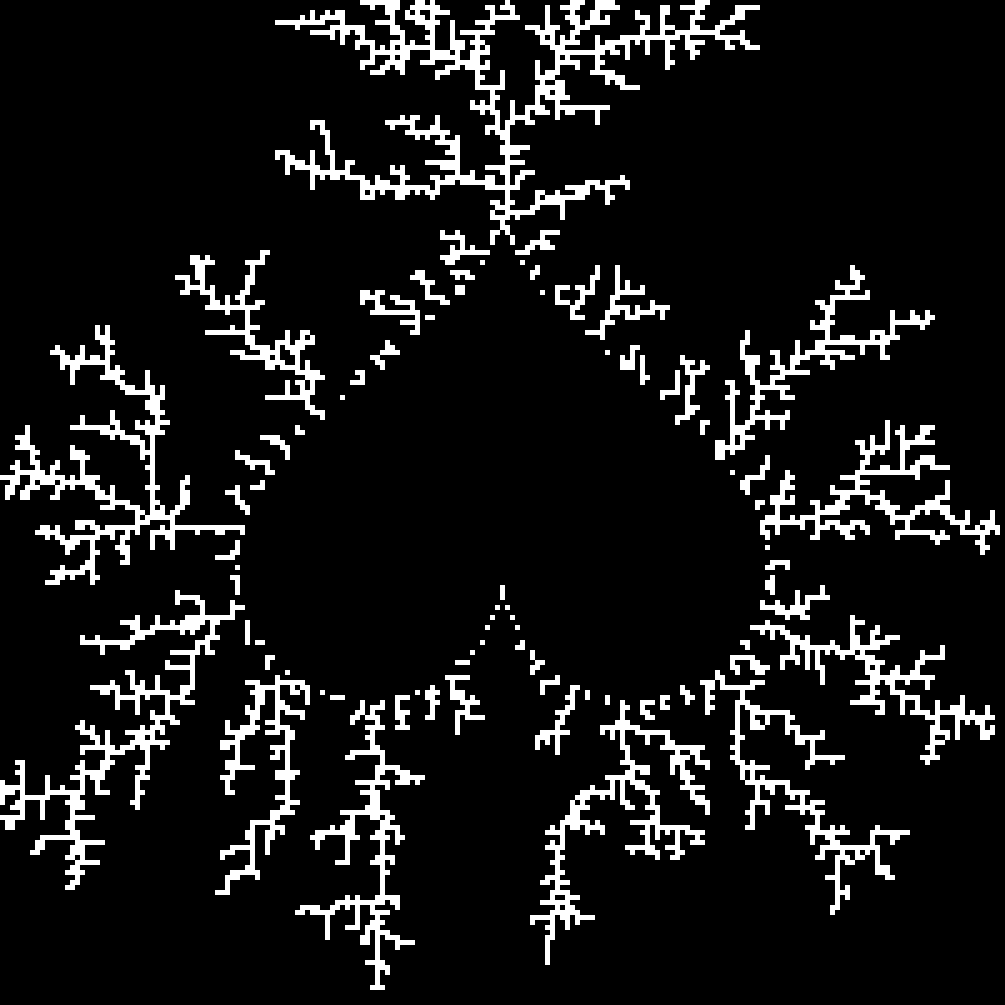
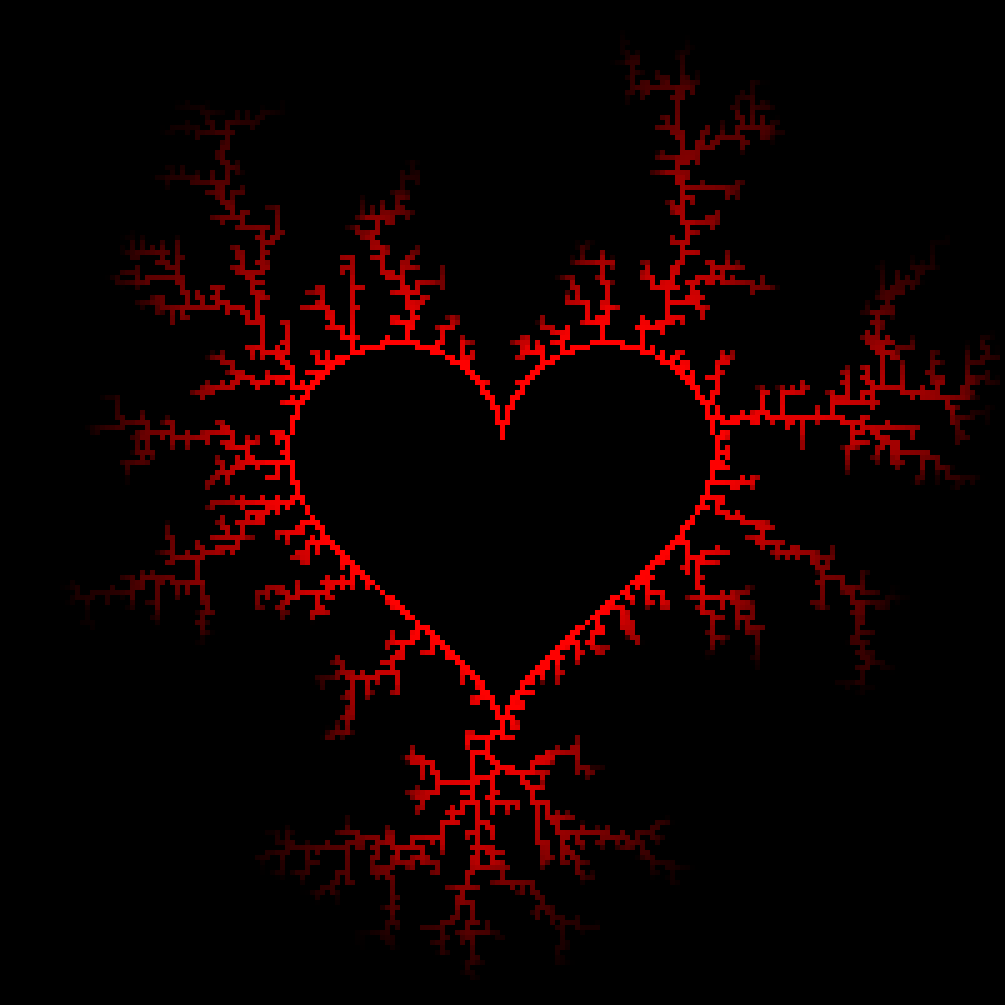
i think dr. balazs will like this one

Changed region(s): [[0.0, 0.0, 1.0, 0.9871], [0.4935, 0.5861, 0.5244, 0.6478]]

diff --git a/DLA/dla.go b/DLA/dla.go
@@ -40,8 +40,8 @@ var StateColor = map[SiteState]color.NRGBA{
 	},
 	Filled: {
 		R: 255,
-		G: 255,
-		B: 255,
+		G: 0,
+		B: 0,
 		A: 255,
 	},
 	// Visited: {
@@ -99,11 +99,6 @@ type Model struct {
 // 	return slices.Delete(slice, s, s+1)
 // }
 
-func unordered_remove[T any](s []T, i int) []T {
-	s[i] = s[len(s)-1]
-	return s[:len(s)-1]
-}
-
 // // this isnt dumb at all
 // type Walkers []Walker
 //
@@ -132,11 +127,15 @@ func gen_grid(size int) Grid {
 //
 // }
 
-func heart_equation(t float64) (float64, float64) {
-	y := 16 * math.Pow(math.Sin(t), 3)
-	x := 13*math.Cos(t) - 5*math.Cos(2*t) - 2*math.Cos(3*t) - math.Cos(4*t)
+func round(x float64) int {
+	return int(math.Round(x))
+}
 
-	y /= 15
+func heart_equation(t float64) (float64, float64) {
+	x := 16 * math.Pow(math.Sin(t), 3)
+	y := 13*math.Cos(t) - 5*math.Cos(2*t) - 2*math.Cos(3*t) - math.Cos(4*t)
+
+	y /= -15
 	x /= 15
 
 	return x, y
@@ -153,19 +152,15 @@ func gen_heart_grid(size int, radius float64) Grid {
 	mid := (size - 1) / 2
 	mid_point := Point{row: mid, col: mid}
 
-	points := 100
+	points := 1000
 
 	for i := range points {
 		t := float64(i) / float64(points) * 2 * math.Pi
-		fmt.Println("t? ", t)
 
 		x, y := heart_equation(t)
-		fmt.Println("got this x, y", x, y)
-		point := Point{row: int(math.Round(x * radius)), col: int(math.Round(y * radius))}
+		point := Point{col: int(math.Round(x * radius)), row: int(math.Round(y * radius))}
 
 		real_point := add_points(point, mid_point)
-
-		fmt.Println("filled this square: ", real_point)
 
 		*grid.index(real_point) = Filled
 
@@ -257,7 +252,8 @@ func init_model(size int, p float64) Model {
 	//
 	// *grid.index(middle) = 1
 
-	grid := gen_heart_grid(size, 50)
+	heart_radius := 40.0
+	grid := gen_heart_grid(size, heart_radius)
 	// walkers := make([]Walker, 1)
 	// walkers[0] = Walker{
 	// 	location: middle,
@@ -298,7 +294,7 @@ func (m *Model) countNeibors(point Point) int {
 	neighbors := 0
 	for _, step := range CARDINALS {
 		new_point := add_points(point, step)
-		if m.grid.is_valid_point(new_point) && *m.grid.index(new_point) == Filled {
+		if m.grid.is_valid_point(new_point) && *m.grid.index(new_point) > 0 {
 			neighbors++
 		}
 	}
@@ -306,18 +302,25 @@ func (m *Model) countNeibors(point Point) int {
 	return neighbors
 }
 
-func (m *Model) tick(r *rand.Rand) {
+func (m *Model) onPerimeter(point Point) bool {
+	if point.row == 0 || point.row == m.size-1 || point.col == 0 || point.col == m.size-1 {
+		return true
+	} else {
+		return false
+	}
+}
+
+func (m *Model) tick(r *rand.Rand) bool {
 
 	// index := -1
 	walker := m.random_start(r)
+	var new_point Point
 	// fmt.Println("starting here:", walker)
 	for true {
 
 		// index++
 
 		// walker := &m.walkers[index]
-
-		var new_point Point
 
 		// start := time.Now()
 
@@ -333,14 +336,22 @@ func (m *Model) tick(r *rand.Rand) {
 
 		neihbors := m.countNeibors(new_point)
 		if neihbors > 0 {
-			*m.grid.index(new_point) = Filled
+			*m.grid.index(new_point) = SiteState(m.time)
+			// *m.grid.index(new_point) = Filled
 			m.infected++
+
 			break
 		}
 
 	}
 
 	m.time++
+
+	if m.onPerimeter(new_point) {
+		return true
+	} else {
+		return false
+	}
 
 }
 
@@ -441,13 +452,6 @@ func main() {
 	case "3d":
 		make_3d_chart(data)
 
-	case "threshold":
-		make_threshold_chart(data)
-	case "derivative":
-		make_derivative_chart(data)
-	case "cross":
-		cross_sections(data)
-
 	default:
 		fmt.Println("uknown chart type: ", *args.chart)
 	}
@@ -547,148 +551,6 @@ func cast_to_float(input []any) ([]float64, error) {
 //
 // }
 
-func formatXY(Data []opts.Chart3DData) [][]float64 {
-	data := make([][]float64, 50)
-
-	for index := range data {
-		data[index] = make([]float64, 50)
-	}
-
-	for _, value := range Data {
-
-		values, err := cast_to_float(value.Value)
-		if err != nil {
-			panic(err)
-		}
-
-		// fmt.Println(values)
-
-		data[int(values[1])][int(math.Round(values[0]*50))] = values[2]
-
-		// switch v := value.Value[0].(type) {
-		// case float64:
-		// 	data[row_dex][col_dex] = v
-		// default:
-		// 	panic("howd that get in here")
-		// }
-	}
-
-	return data
-
-}
-
-func make_threshold_chart(Data []opts.Chart3DData) {
-
-	data := formatXY(Data)
-
-	threshold := make([]float64, 50)
-
-	for p, row := range data {
-		j := 0
-		for j < len(row) && row[j] == 0 {
-			j++
-		}
-
-		j--
-
-		threshold[p] = float64(j) / 50
-
-	}
-
-	// fmt.Println(threshold)
-
-	// for i := len(threshold) - 1; i >= 0; i-- {
-	// 	fmt.Println(threshold[i])
-	// }
-
-	for _, value := range threshold {
-		fmt.Println(value)
-	}
-
-}
-
-const DATA_SIZE = 50
-
-// MUST BE tau by p
-func cast_to_echart_format(data [][]float64) []opts.Chart3DData {
-	// fmt.Println(data)
-
-	output := make([]opts.Chart3DData, 0, len(data)*len(data[0]))
-
-	for i, row := range data {
-		for j, k := range row {
-			if k == 0 {
-				continue
-			}
-
-			output = append(output, opts.Chart3DData{Value: []any{j, float64(i) / DATA_SIZE, k}})
-		}
-	}
-
-	return output
-}
-
-func make_derivative_chart(Data []opts.Chart3DData) {
-	data := formatXY(Data)
-
-	d_tau := make([][]float64, 50)
-	d_p := make([][]float64, 50)
-
-	for i := range d_tau {
-		d_tau[i] = make([]float64, 50-1)
-		d_p[i] = make([]float64, 50-1)
-
-	}
-
-	for i := range DATA_SIZE - 1 {
-		for j := range DATA_SIZE - 2 {
-			if data[i][j] == 0 {
-				continue
-			}
-
-			d_p[i][j] = (data[i][j+1] - data[i][j])
-		}
-
-	}
-
-	for j := range DATA_SIZE - 1 {
-		for i := range DATA_SIZE - 2 {
-			d_tau[i][j] = (data[i+1][j] - data[i][j])
-
-		}
-	}
-
-	// make_3d_chart(cast_to_echart_format(d_tau))
-	make_3d_chart(cast_to_echart_format(d_p))
-
-}
-
-func cross_sections(Data []opts.Chart3DData) {
-	data := formatXY(Data)
-
-	tau_sections := []int{5, 10, 20}
-
-	for _, tau := range tau_sections {
-		fmt.Println("tau value:", tau)
-
-		for i := range data[tau] {
-			fmt.Println(data[tau][i])
-		}
-	}
-
-	// p_sections := []int{10, 30, 49}
-	//
-	// for _, p := range p_sections {
-	// 	fmt.Println("p value:", p)
-	//
-	// 	for i := range data[p] {
-	// 		fmt.Println(data[i][p])
-	// 		// fmt.Println(val)
-	// 	}
-	// }
-
-}
-
 func one_trial() {
 	size := 201
 	p := 0.2
@@ -703,36 +565,28 @@ func one_trial() {
 	// fmt.Println(delay)
 	// fmt.Println(1.0 / float64(tps))
 
-	i := 0
-	for model.infected < model.people {
-		infected_ratio := float64(model.infected) / float64(model.people)
-		// fmt.Println("iter: ", i, ", infected: ", infected_ratio)
-		if infected_ratio > END_RATIO {
-			pretty_picture(model, "image", 5)
+	for true {
+		end := model.tick(r)
+
+		if end {
 			break
 		}
-
-		// start := time.Now()
-		model.tick(r)
-		// stop := time.Now()
-		// fmt.Println("took this long: ", stop.Sub(start))
-
-		// model.grid.print_grid()
-		// time.Sleep(delay)
-		// clear_screen()
-		i++
-
-		// if i%interval == 0 {
-		// 	make_graph(model, fmt.Sprintf("image-%d.png", i/interval), 30)
-		// }
-
-		// if i > 1000 {
-		// 	break
-		// }
-
 	}
+	pretty_picture(model, "image", 5)
 
 	// pretty_picture(model, "immune", 5)
+
+}
+
+func calc_color(percent float64) color.NRGBA {
+	RStart, REnd := 255.0, 1.0
+
+	// WOW !!! great code
+	return color.NRGBA{
+		R: uint8(RStart + (REnd-RStart)*percent),
+		A: 255,
+		// A: uint8(int(color_start.A) + round(float64(color_end.A-color_start.A)*percent)),
+	}
 
 }
 
@@ -746,10 +600,17 @@ func pretty_picture(model Model, name string, scale int) {
 
 	for y, row := range grid {
 		for x := range row {
+
+			var color color.Color
+			if grid[x][y] == Empty {
+				color = StateColor[Empty]
+			} else {
+				color = calc_color(float64(grid[x][y]) / float64(model.time))
+			}
+
 			for i := range scale {
 				for j := range scale {
-
-					img.Set(y*scale+i, x*scale+j, StateColor[grid[x][y]])
+					img.Set(y*scale+i, x*scale+j, color)
 				}
 			}
 		}
